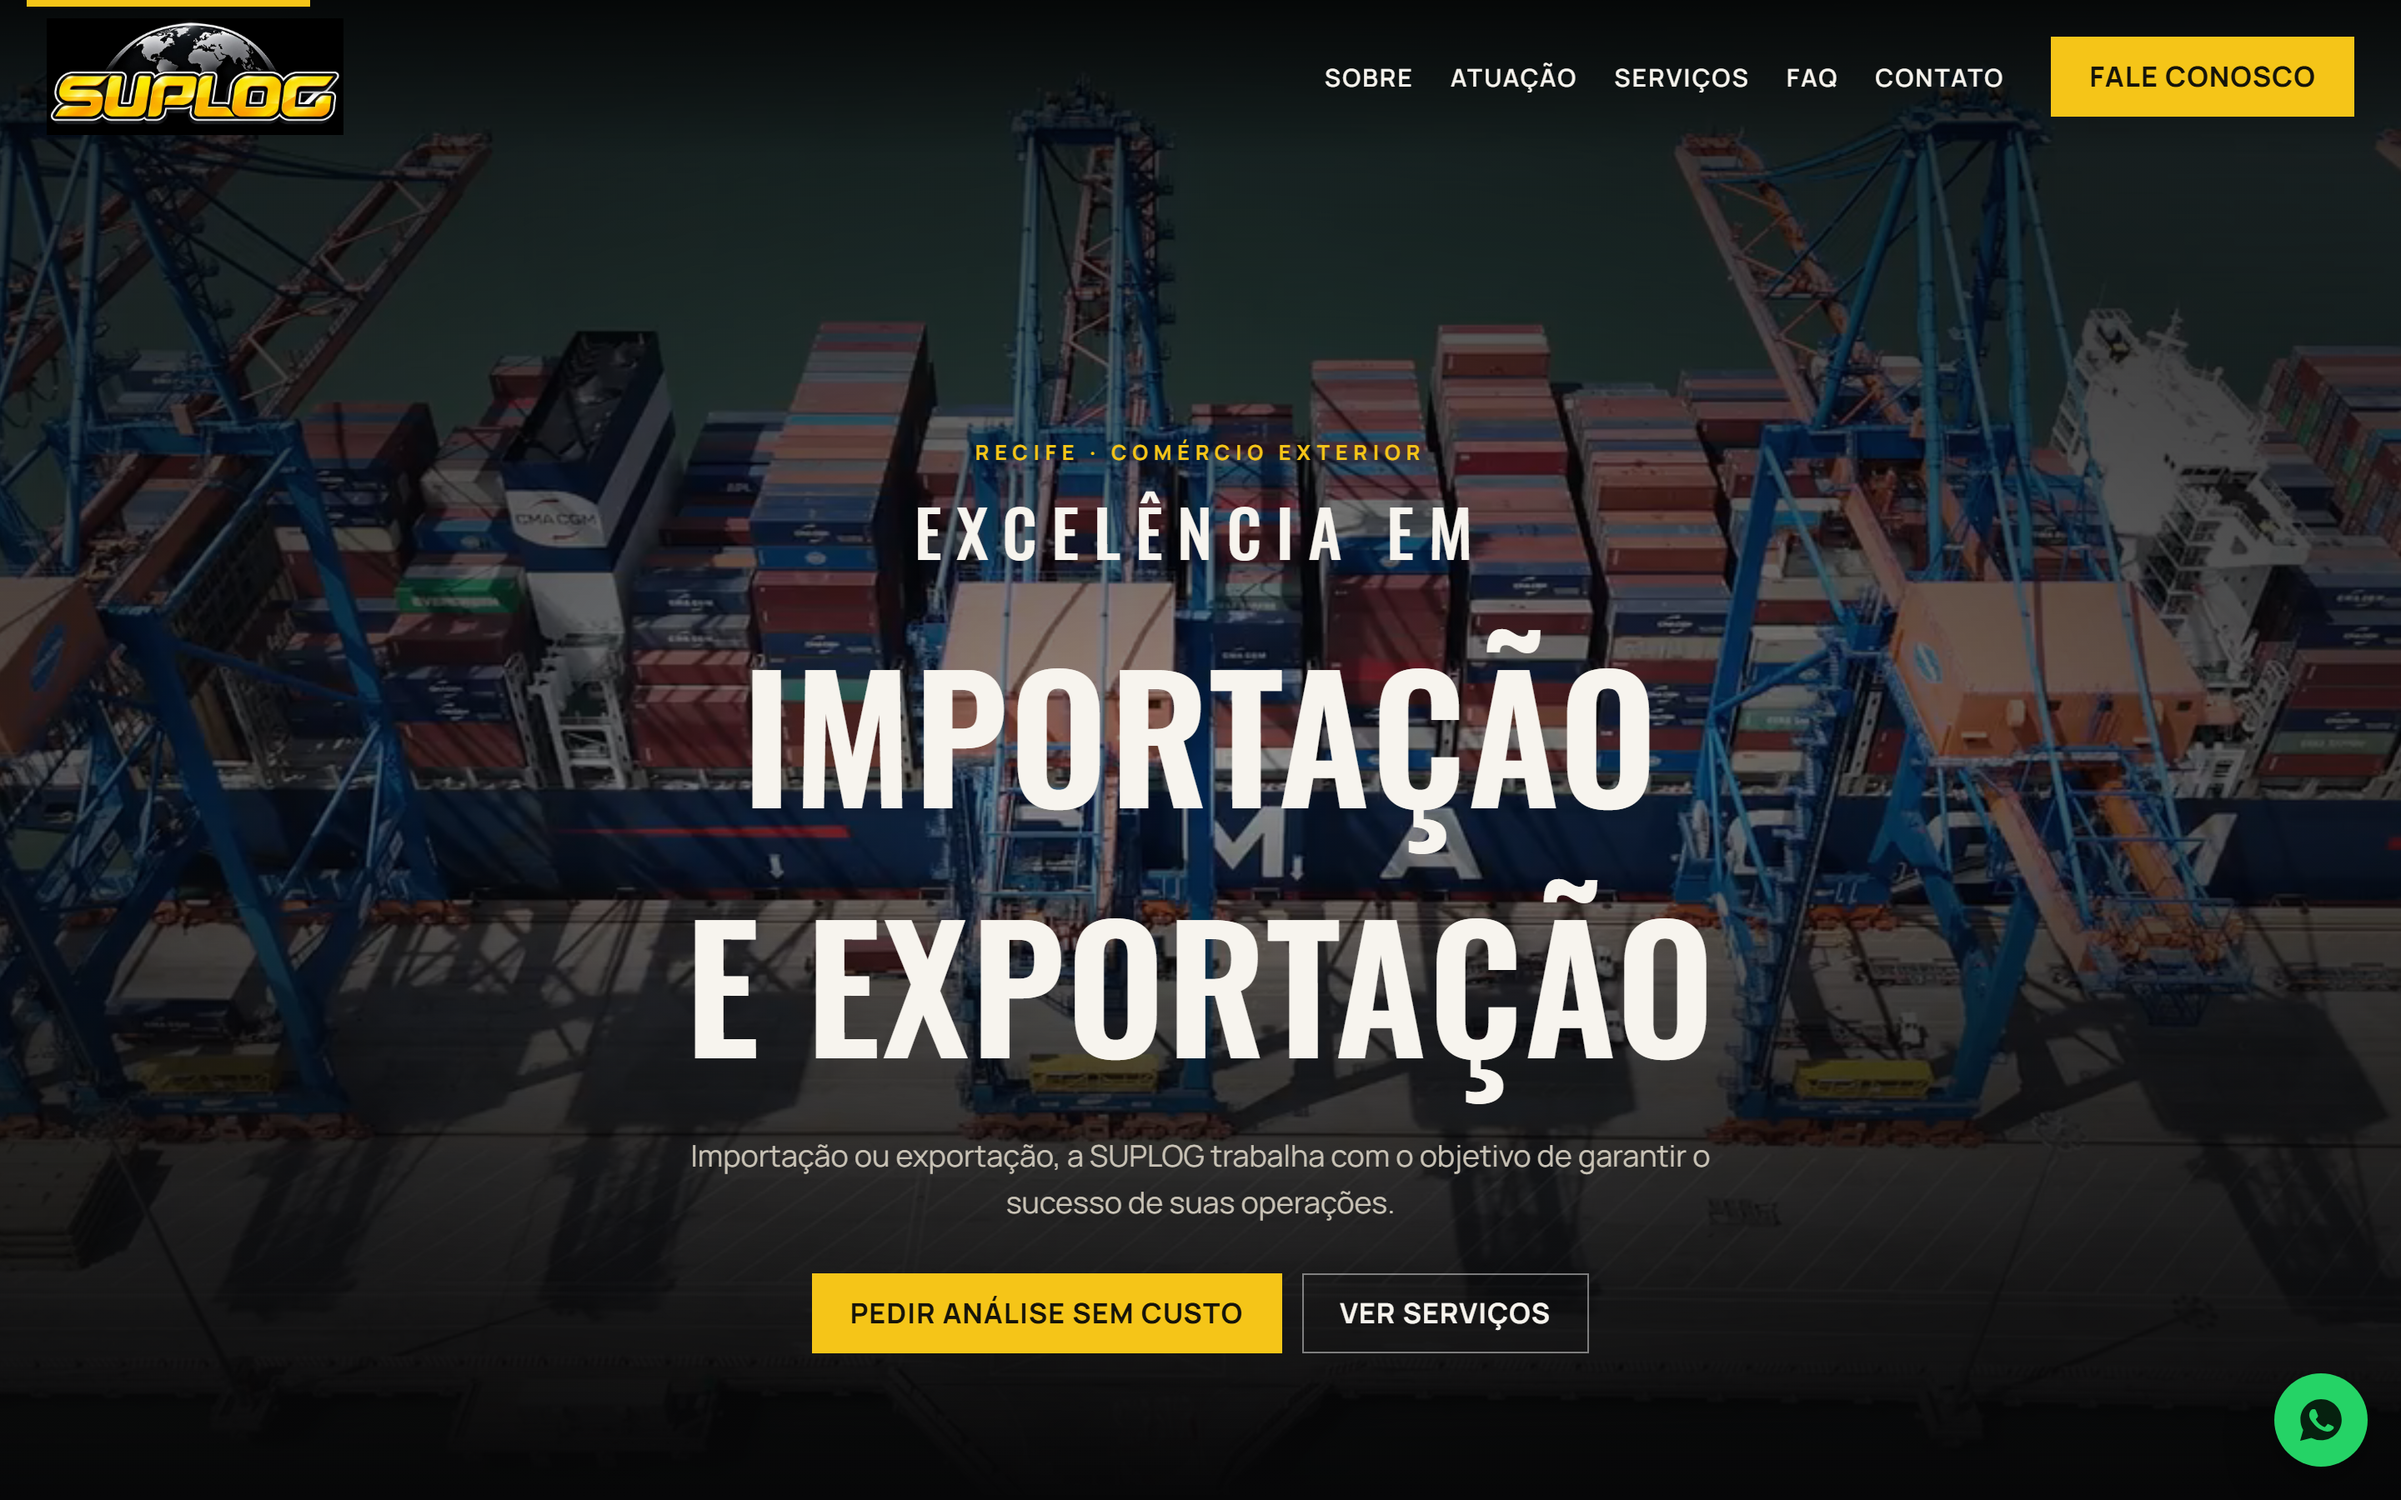
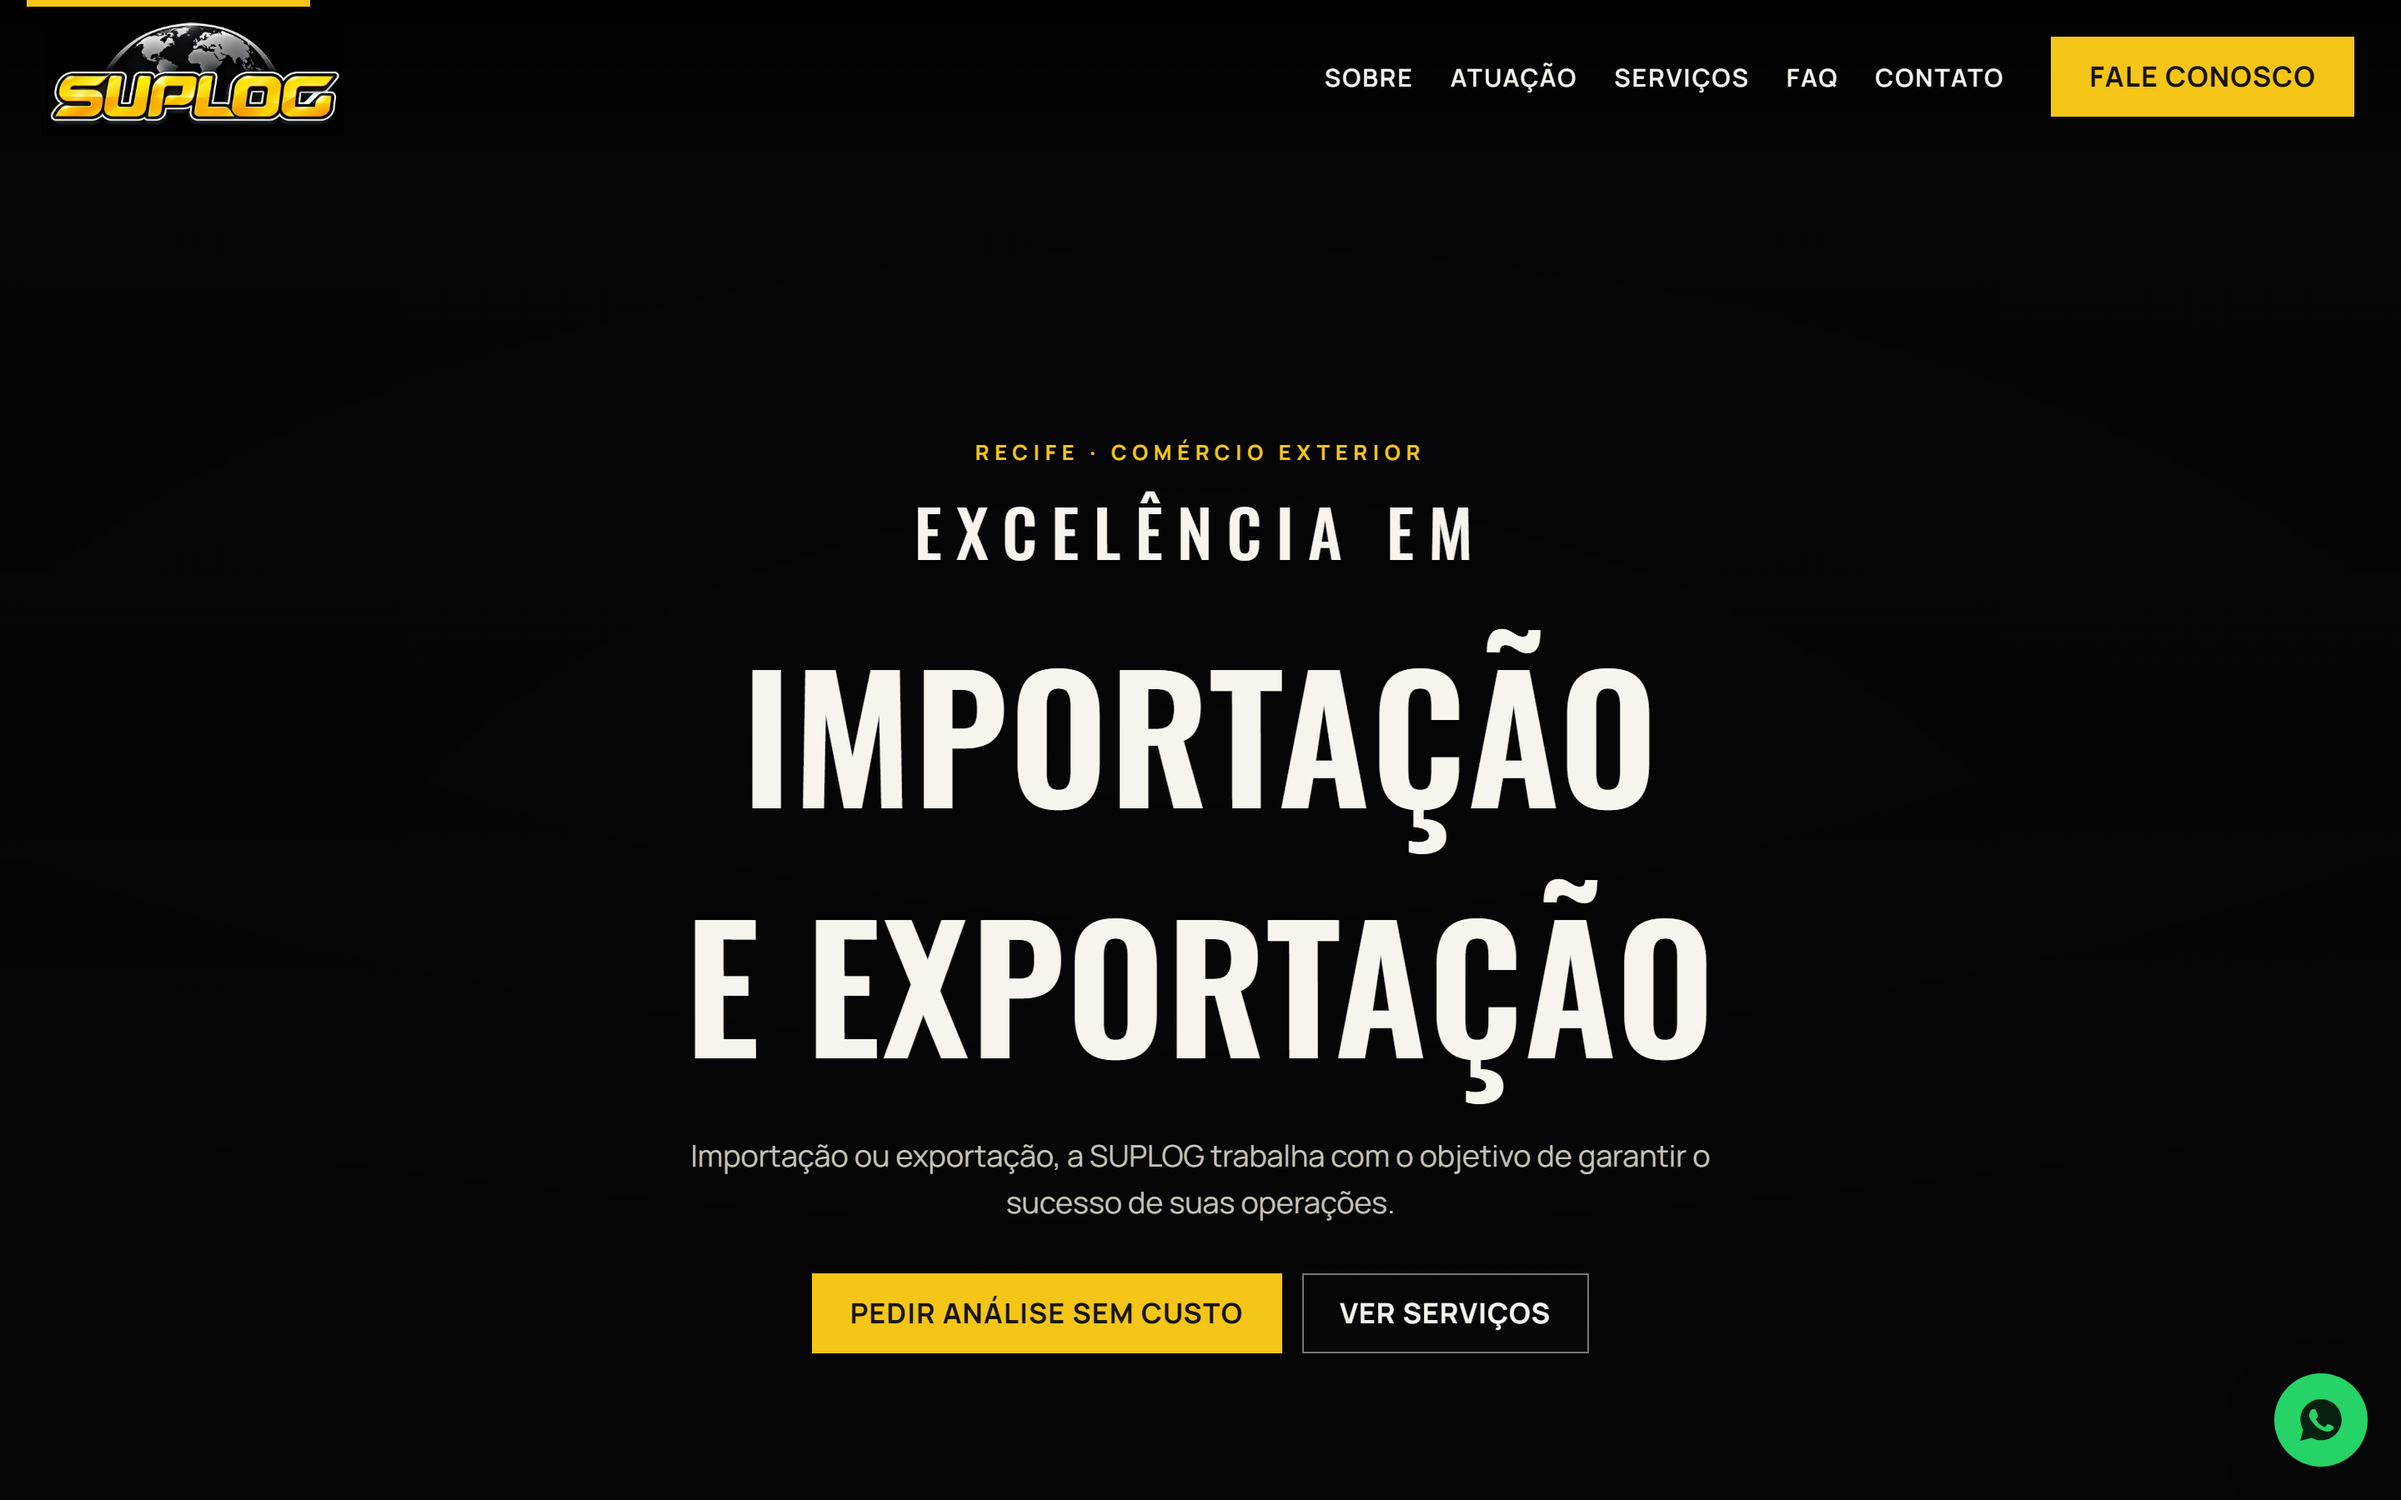
feat: troca Oxente pelo cardapio Cumbuca com demo

diff --git a/src/data/site.ts b/src/data/site.ts
@@ -1,6 +1,6 @@
 import type { ImageMetadata } from 'astro';
 import suplogImage from '../assets/projects/suplog.png';
-import oxenteImage from '../assets/projects/oxente.png';
+import cumbucaImage from '../assets/projects/cumbuca.png';
 import comingSoonImage from '../assets/projects/em-breve.png';
 import { buildWhatsappMessage, buildWhatsappUrl } from '../lib/whatsapp';
 
@@ -65,14 +65,16 @@ export type Project = {
 
 export const projects: Project[] = [
   {
-    title: 'Oxente — Soparia e Comedoria',
+    title: 'Cumbuca — Soparia',
     category: 'Cardápio digital',
     description:
-      'Cardápio digital para restaurante de Caruaru: catálogo de caldos e sopas com fotos, sacola de pedidos e envio do pedido pronto direto para o WhatsApp da casa.',
-    stack: ['HTML', 'Tailwind CSS', 'JavaScript', 'WhatsApp'],
-    image: oxenteImage,
-    imageAlt: 'Página inicial do cardápio digital da Oxente, com uma cumbuca de sopa e o título O Autêntico Sabor do Sertão na Cumbuca',
-    topic: 'um cardápio digital',
+      'Cardápio digital de uma soparia nordestina: catálogo de caldos, cuscuz e tapioca com fotos, sacola de pedidos e mensagem do pedido pronta para enviar.',
+    stack: ['HTML', 'Tailwind CSS', 'JavaScript'],
+    image: cumbucaImage,
+    imageAlt:
+      'Página inicial do cardápio digital da Cumbuca, com uma cumbuca de sopa e o título O Autêntico Sabor do Sertão na Cumbuca',
+    liveUrl: 'https://pmenezesdev.github.io/cumbuca-soparia/',
+    repoUrl: 'https://github.com/pmenezesdev/cumbuca-soparia',
   },
   {
     title: 'SUPLOG — Comércio Exterior',
